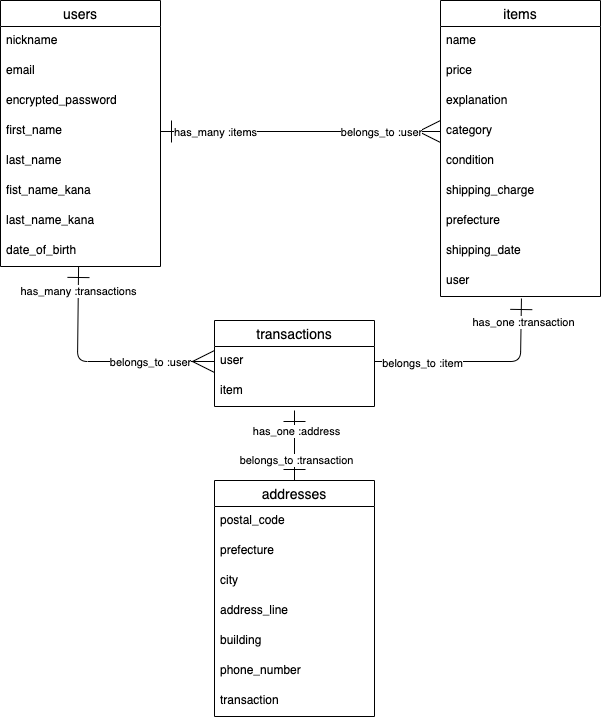
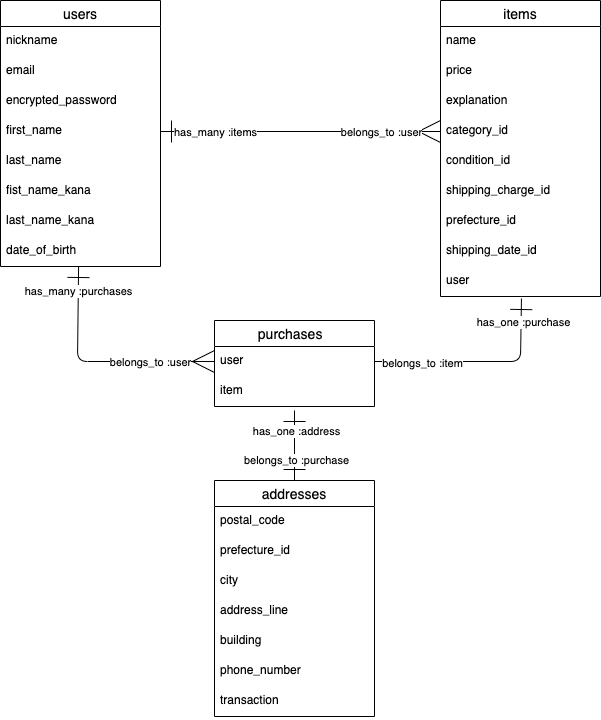
ER図、READMEの修正
・ActiveHashを利用するカラムのカラム名に「_id」を付与
・予約語を避け、テーブル名をtransactions→purchasesへ変更
・データ型「references」の複数形のsが抜けていたところを追記

diff --git a/README.md b/README.md
@@ -14,31 +14,31 @@
 | date_of_birth      | date     | null: false               |
 
 has_many :items
-has_many :transactions
+has_many :purchases
 
 ## items テーブル
 
-| Column          | Type       | Options                        |
-| --------------- | ---------- | ------------------------------ |
-| name            | string     | null: false                    |
-| price           | integer    | null: false                    |
-| explanation     | text       | null: false                    |
-| category        | integer    | null: false                    |
-| condition       | integer    | null: false                    |
-| shipping_charge | integer    | null: false                    |
-| prefecture      | integer    | null: false                    |
-| shipping_date   | integer    | null: false                    |
-| user            | reference  | null: false, foreign_key: true |
+| Column             | Type        | Options                        |
+| ------------------ | ----------- | ------------------------------ |
+| name               | string      | null: false                    |
+| price              | integer     | null: false                    |
+| explanation        | text        | null: false                    |
+| category_id        | integer     | null: false                    |
+| condition_id       | integer     | null: false                    |
+| shipping_charge_id | integer     | null: false                    |
+| prefecture_id      | integer     | null: false                    |
+| shipping_date_id   | integer     | null: false                    |
+| user               | references  | null: false, foreign_key: true |
 
 belongs_to :user
-has_one :transaction
+has_one :purchase
 
-## transactions テーブル
+## purchases テーブル
 
-| Column          | Type       | Options                        |
-| --------------- | ---------- | ------------------------------ |
-| user            | reference  | null: false, foreign_key: true |
-| item            | reference  | null: false, foreign_key: true |
+| Column          | Type        | Options                        |
+| --------------- | ----------- | ------------------------------ |
+| user            | references  | null: false, foreign_key: true |
+| item            | references  | null: false, foreign_key: true |
 
 belongs_to :item
 belongs_to :user
@@ -46,14 +46,14 @@ has_one :address
 
 ## addresses テーブル
 
-| Column          | Type       | Options                        |
-| --------------- | ---------- | ------------------------------ |
-| postal_code     | string     | null: false                    |
-| prefecture      | integer    | null: false                    |
-| city            | string     | null: false                    |
-| address_line    | string     | null: false                    |
-| building        | string     |                                |
-| phone_number    | string     | null: false                    |
-| transaction     | reference  | null: false, foreign_key: true |
+| Column          | Type        | Options                        |
+| --------------- | ----------- | ------------------------------ |
+| postal_code     | string      | null: false                    |
+| prefecture_id   | integer     | null: false                    |
+| city            | string      | null: false                    |
+| address_line    | string      | null: false                    |
+| building        | string      |                                |
+| phone_number    | string      | null: false                    |
+| transaction     | references  | null: false, foreign_key: true |
 
-belongs_to :transaction
+belongs_to :purchase
